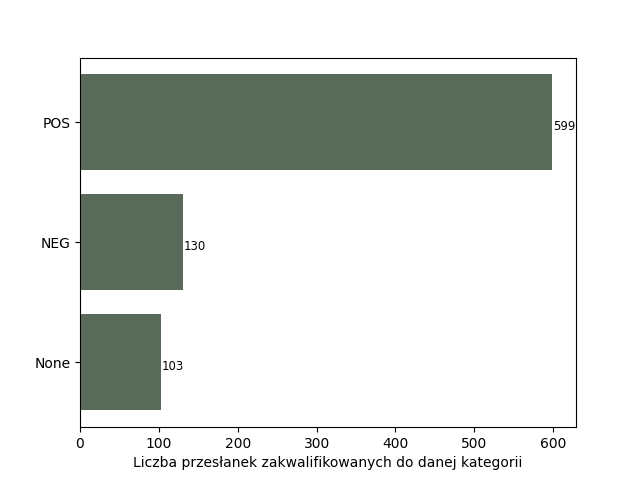
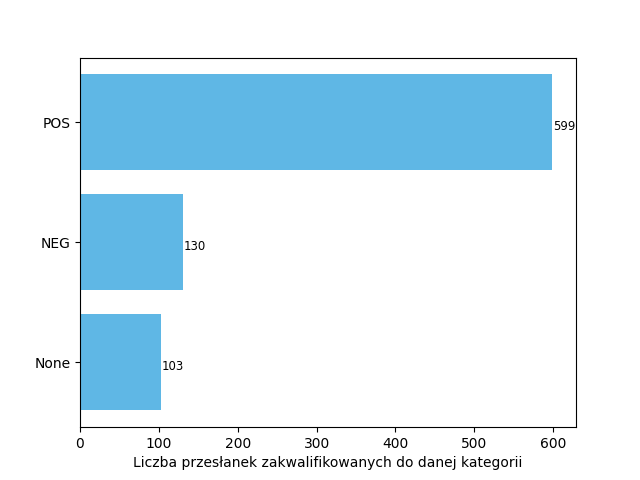
graphs update

Changed region(s): [[0.125, 0.1562, 0.875, 0.375], [0.125, 0.4062, 0.3125, 0.625], [0.125, 0.6562, 0.25, 0.875]]

diff --git a/sentiment-analysis.py b/sentiment-analysis.py
@@ -121,7 +121,35 @@ x_axis = (pos_count, neg_count, un_count)
 for i, v in enumerate(x_axis):
     ax.text(v + 1, i + 0.06, str(v), color='black', size='small')
 
-plt.barh(y_axis, x_axis, align='center', color='#59695A')
+plt.barh(y_axis, x_axis, align='center', color='#5FB7E5')
 ax.invert_yaxis() # labels read top-to-bottom
 ax.set_xlabel('Liczba przesłanek zakwalifikowanych do danej kategorii')
 plt.savefig('plots/sen-an.png')
+
+#--------------------------
+
+pos_dict = 0
+neg_dict = 0
+neu_dict = 0
+
+for key, value in sentiment.items():
+    if value == 1:
+        pos_dict = pos_dict + 1
+    elif value == -1:
+        neg_dict = pos_dict + 1
+    elif value == 0:
+        neu_dict = pos_dict + 1
+
+plt.rcdefaults()
+fig, ax = plt.subplots()
+
+y_axis = ('POS', 'NEG', 'None')
+x_axis = (pos_dict, neg_dict, neu_dict)
+
+for i, v in enumerate(x_axis):
+    ax.text(v + 1, i + 0.06, str(v), color='black', size='small')
+
+plt.barh(y_axis, x_axis, align='center', color='#F0CB69')
+ax.invert_yaxis() # labels read top-to-bottom
+ax.set_xlabel('Liczba lematów należących do danej kategorii')
+plt.savefig('plots/sen-an-dict.png')

diff --git a/emotion-analysis.py b/emotion-analysis.py
@@ -174,7 +174,23 @@ x_axis = (hap_count, ang_count, sad_count, fea_count, dis_count, none_count)
 for i, v in enumerate(x_axis):
     ax.text(v + 1, i + 0.06, str(v), color='black', size='small')
 
-plt.barh(y_axis, x_axis, align='center', color='#7B947C')
+plt.barh(y_axis, x_axis, align='center', color='#AB91C5')
 ax.invert_yaxis() # labels read top-to-bottom
 ax.set_xlabel('Liczba przesłanek zakwalifikowanych do danej kategorii')
 plt.savefig('plots/emo-an.png')
+
+#--------------------------
+
+plt.rcdefaults()
+fig, ax = plt.subplots()
+
+y_axis = ('HAP', 'ANG', 'SAD', 'FEA', 'DIS')
+x_axis = (len(happy), len(anger), len(sadness), len(fearness), len(disgust))
+
+for i, v in enumerate(x_axis):
+    ax.text(v + 1, i + 0.06, str(v), color='black', size='small')
+
+plt.barh(y_axis, x_axis, align='center', color='#8EC3A7')
+ax.invert_yaxis() # labels read top-to-bottom
+ax.set_xlabel('Liczba lematów należących do danej kategorii')
+plt.savefig('plots/emo-an-dict.png')
